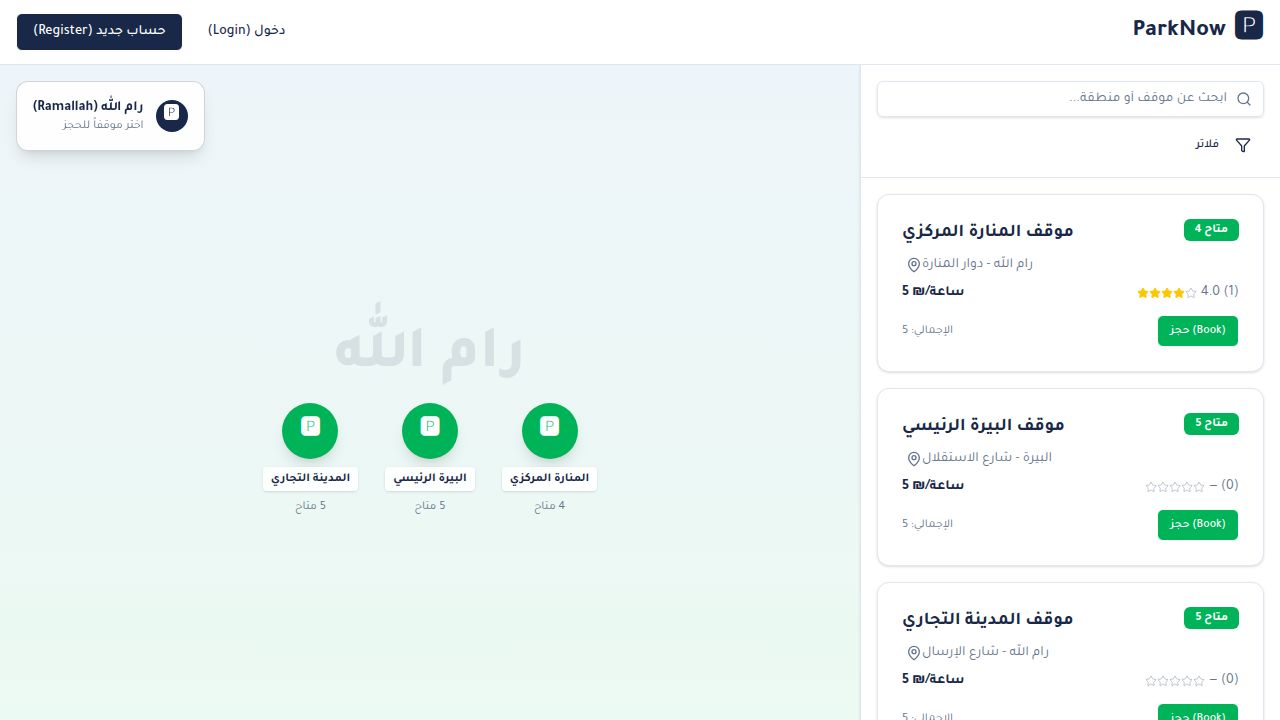
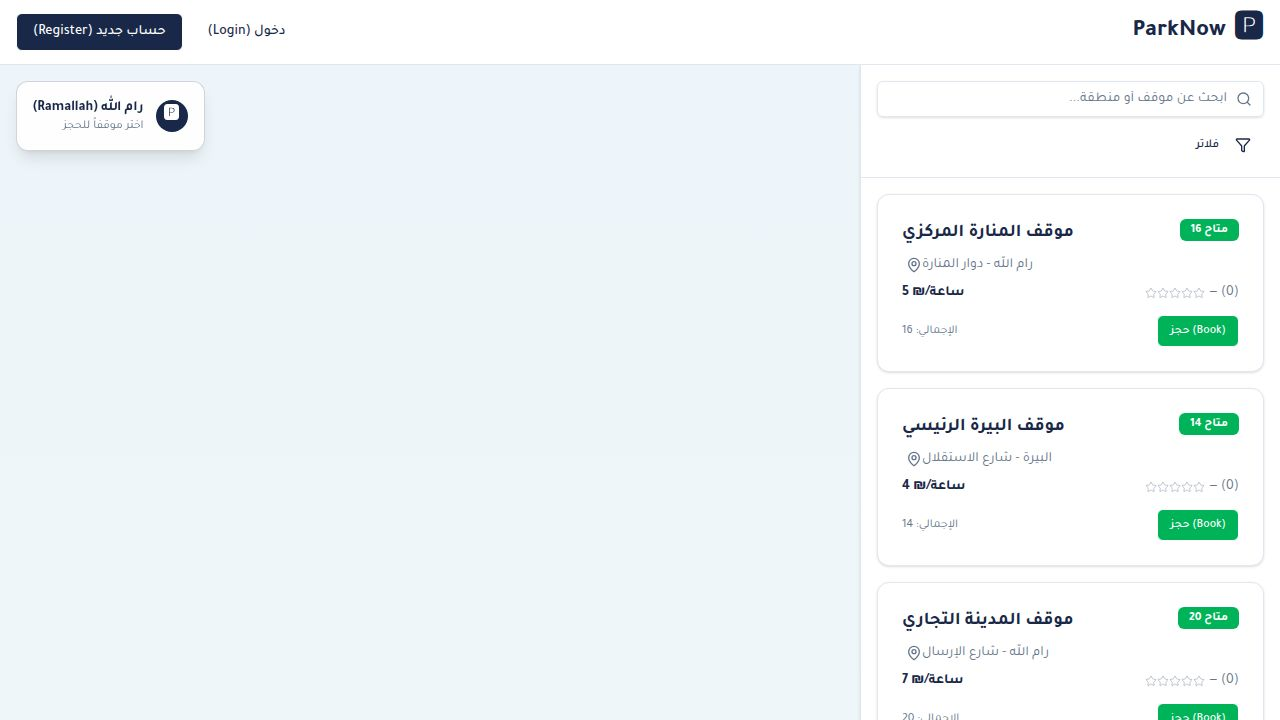
Add welcome and password reset emails and update parking lot data
Implement branded HTML email templates for user registration welcome and password reset OTPs, enhancing the user experience. Add new parking lots in West Bank cities and update existing data, expanding service coverage. Address a security vulnerability by redacting sensitive information from email logs.

Replit-Commit-Author: Agent
Replit-Commit-Session-Id: 3f3a33ab-1a04-45de-af9e-ed6e1a8b5442
Replit-Commit-Checkpoint-Type: full_checkpoint
Replit-Commit-Event-Id: c505c5c2-1ae6-43f1-9c71-472826e18534
Replit-Commit-Screenshot-Url: https://storage.googleapis.com/screenshot-production-us-central1/40684325-cdf8-4e19-86f3-aae6f1441dc0/3f3a33ab-1a04-45de-af9e-ed6e1a8b5442/oGoqeWl
Replit-Helium-Checkpoint-Created: true

diff --git a/artifacts/api-server/src/lib/email-templates.ts b/artifacts/api-server/src/lib/email-templates.ts
@@ -1,0 +1,191 @@
+const NAVY = "#1a2b4a";
+const GREEN = "#00b359";
+const LIGHT_BG = "#f4f6fa";
+const TEXT = "#2d3748";
+const MUTED = "#6b7280";
+
+function escapeHtml(s: string): string {
+  return s
+    .replace(/&/g, "&amp;")
+    .replace(/</g, "&lt;")
+    .replace(/>/g, "&gt;")
+    .replace(/"/g, "&quot;")
+    .replace(/'/g, "&#39;");
+}
+
+function shell(opts: { title: string; bodyHtml: string; preheader?: string }): string {
+  const preheader = opts.preheader ? escapeHtml(opts.preheader) : "";
+  return `<!doctype html>
+<html lang="ar" dir="rtl">
+<head>
+<meta charset="utf-8" />
+<meta name="viewport" content="width=device-width,initial-scale=1" />
+<title>${escapeHtml(opts.title)}</title>
+</head>
+<body style="margin:0;padding:0;background:${LIGHT_BG};font-family:'Segoe UI',Tahoma,Arial,sans-serif;color:${TEXT};direction:rtl;">
+<span style="display:none!important;visibility:hidden;opacity:0;height:0;width:0;overflow:hidden;mso-hide:all;">${preheader}</span>
+<table role="presentation" width="100%" cellpadding="0" cellspacing="0" style="background:${LIGHT_BG};padding:32px 12px;">
+  <tr><td align="center">
+    <table role="presentation" width="600" cellpadding="0" cellspacing="0" style="max-width:600px;width:100%;background:#ffffff;border-radius:16px;overflow:hidden;box-shadow:0 4px 24px rgba(26,43,74,0.08);">
+      <tr>
+        <td style="background:${NAVY};padding:28px 24px;text-align:center;">
+          <table role="presentation" cellpadding="0" cellspacing="0" align="center"><tr>
+            <td style="background:#ffffff;width:48px;height:48px;border-radius:12px;text-align:center;vertical-align:middle;font-weight:800;font-size:24px;color:${NAVY};font-family:Arial,sans-serif;">P</td>
+            <td style="width:12px;"></td>
+            <td style="color:#ffffff;font-size:24px;font-weight:700;font-family:Arial,sans-serif;letter-spacing:0.5px;">ParkNow</td>
+          </tr></table>
+          <div style="color:#cfd6e4;font-size:13px;margin-top:10px;">منصة حجز مواقف السيارات في فلسطين</div>
+        </td>
+      </tr>
+      <tr>
+        <td style="padding:32px 28px 16px 28px;">
+          ${opts.bodyHtml}
+        </td>
+      </tr>
+      <tr>
+        <td style="padding:8px 28px 28px 28px;">
+          <hr style="border:none;border-top:1px solid #e5e7eb;margin:16px 0;" />
+          <p style="color:${MUTED};font-size:12px;line-height:1.7;margin:0;text-align:center;">
+            هذه رسالة آلية، لا حاجة للرد عليها.<br/>
+            <span style="direction:ltr;display:inline-block;">© ParkNow · Palestine</span>
+          </p>
+        </td>
+      </tr>
+    </table>
+  </td></tr>
+</table>
+</body>
+</html>`;
+}
+
+function button(href: string, label: string): string {
+  return `<table role="presentation" cellpadding="0" cellspacing="0" align="center" style="margin:8px auto;">
+    <tr><td style="background:${GREEN};border-radius:10px;">
+      <a href="${escapeHtml(href)}" style="display:inline-block;padding:12px 28px;color:#ffffff;text-decoration:none;font-weight:700;font-size:15px;font-family:Arial,sans-serif;">${escapeHtml(label)}</a>
+    </td></tr>
+  </table>`;
+}
+
+export function welcomeEmailTemplate(opts: { name: string; email: string; appUrl?: string }): {
+  subject: string;
+  text: string;
+  html: string;
+} {
+  const subject = "أهلاً وسهلاً في ParkNow";
+  const appUrl = opts.appUrl ?? "";
+
+  const text = `أهلاً وسهلاً ${opts.name} في ParkNow!
+
+تم إنشاء حسابك بنجاح:
+الاسم: ${opts.name}
+البريد: ${opts.email}
+
+كيف تستخدم التطبيق:
+1. تصفح المواقف القريبة من موقعك على الخريطة
+2. اختر الموقف وحدد وقت الحجز
+3. ادفع الرسوم بسهولة وأمان
+4. استلم تأكيد الحجز ورمز QR
+5. توجه إلى الموقف وامسح الرمز عند الدخول
+
+نتمنى لك تجربة سهلة ومريحة!
+فريق ParkNow`;
+
+  const bodyHtml = `
+    <h1 style="color:${NAVY};font-size:26px;font-weight:800;margin:0 0 8px 0;text-align:center;">أهلاً وسهلاً ${escapeHtml(opts.name)}!</h1>
+    <p style="color:${TEXT};font-size:16px;line-height:1.8;margin:0 0 18px 0;text-align:center;">يسعدنا انضمامك إلى عائلة <strong style="color:${NAVY};">ParkNow</strong>، الحل الأذكى لحجز مواقف السيارات في فلسطين.</p>
+
+    <table role="presentation" width="100%" cellpadding="0" cellspacing="0" style="background:${LIGHT_BG};border-radius:12px;border-right:4px solid ${GREEN};margin:18px 0;">
+      <tr><td style="padding:16px 18px;">
+        <div style="color:${MUTED};font-size:12px;margin-bottom:6px;">معلومات الحساب</div>
+        <div style="color:${TEXT};font-size:15px;line-height:1.9;">
+          <strong>الاسم:</strong> ${escapeHtml(opts.name)}<br/>
+          <strong>البريد:</strong> <span style="direction:ltr;display:inline-block;">${escapeHtml(opts.email)}</span>
+        </div>
+      </td></tr>
+    </table>
+
+    <h2 style="color:${NAVY};font-size:18px;font-weight:700;margin:24px 0 12px 0;">كيف تستخدم ParkNow؟</h2>
+    <table role="presentation" width="100%" cellpadding="0" cellspacing="0">
+      ${[
+        ["1", "تصفّح المواقف القريبة منك على الخريطة وشاهد الأسعار والتوفر مباشرة."],
+        ["2", "اختر الموقف المناسب وحدّد وقت الحجز بكل سهولة."],
+        ["3", "أكمل الحجز واحصل على تأكيد فوري مع رمز QR."],
+        ["4", "توجّه للموقف، امسح الرمز عند الدخول، واستمتع بتجربة بدون انتظار."],
+      ]
+        .map(
+          ([n, txt]) => `<tr><td style="padding:8px 0;vertical-align:top;">
+        <table role="presentation" cellpadding="0" cellspacing="0"><tr>
+          <td style="background:${GREEN};color:#ffffff;width:30px;height:30px;border-radius:50%;text-align:center;font-weight:800;font-family:Arial,sans-serif;font-size:14px;">${n}</td>
+          <td style="width:14px;"></td>
+          <td style="color:${TEXT};font-size:14px;line-height:1.7;">${escapeHtml(txt)}</td>
+        </tr></table>
+      </td></tr>`,
+        )
+        .join("")}
+    </table>
+
+    ${appUrl ? button(appUrl, "ابدأ الحجز الآن") : ""}
+
+    <p style="color:${MUTED};font-size:13px;line-height:1.7;margin:24px 0 0 0;text-align:center;">
+      إذا كان لديك أي استفسار، نحن هنا لمساعدتك في أي وقت.
+    </p>
+  `;
+
+  return { subject, text, html: shell({ title: subject, bodyHtml, preheader: `مرحباً ${opts.name}، حسابك جاهز.` }) };
+}
+
+export function passwordResetEmailTemplate(opts: { code: string; minutes?: number }): {
+  subject: string;
+  text: string;
+  html: string;
+} {
+  const minutes = opts.minutes ?? 10;
+  const subject = "ParkNow - رمز إعادة تعيين كلمة المرور";
+
+  const text = `طلبت إعادة تعيين كلمة المرور لحسابك في ParkNow.
+
+رمز التحقق: ${opts.code}
+
+صالح لمدة ${minutes} دقيقة فقط.
+
+إذا لم تطلب هذا، يمكنك تجاهل الرسالة بأمان.
+
+فريق ParkNow`;
+
+  const digits = opts.code
+    .split("")
+    .map(
+      (d) =>
+        `<td style="background:#ffffff;border:2px solid ${NAVY};color:${NAVY};font-size:28px;font-weight:800;width:44px;height:54px;text-align:center;border-radius:8px;font-family:'Courier New',monospace;">${escapeHtml(
+          d,
+        )}</td>`,
+    )
+    .join('<td style="width:8px;"></td>');
+
+  const bodyHtml = `
+    <h1 style="color:${NAVY};font-size:24px;font-weight:800;margin:0 0 8px 0;text-align:center;">إعادة تعيين كلمة المرور</h1>
+    <p style="color:${TEXT};font-size:15px;line-height:1.8;margin:0 0 20px 0;text-align:center;">طلبت إعادة تعيين كلمة المرور لحسابك في <strong>ParkNow</strong>. استخدم الرمز التالي لإكمال العملية:</p>
+
+    <table role="presentation" cellpadding="0" cellspacing="0" align="center" style="margin:18px auto;">
+      <tr>${digits}</tr>
+    </table>
+
+    <table role="presentation" width="100%" cellpadding="0" cellspacing="0" style="background:${LIGHT_BG};border-radius:10px;margin:18px 0;">
+      <tr><td style="padding:14px 18px;text-align:center;color:${TEXT};font-size:14px;">
+        ⏱ صالح لمدة <strong style="color:${NAVY};">${minutes} دقيقة</strong> فقط
+      </td></tr>
+    </table>
+
+    <div style="background:#fff8e1;border-right:4px solid #f59e0b;padding:14px 18px;border-radius:8px;margin:20px 0;">
+      <p style="color:#78350f;font-size:13px;line-height:1.7;margin:0;">
+        <strong>تنبيه أمني:</strong> إذا لم تطلب إعادة تعيين كلمة المرور، تجاهل هذه الرسالة. كلمة مرورك الحالية لا تزال آمنة.
+      </p>
+    </div>
+
+    <p style="color:${MUTED};font-size:12px;line-height:1.7;margin:18px 0 0 0;text-align:center;">
+      لا تشارك هذا الرمز مع أي شخص. فريق ParkNow لن يطلبه منك أبداً.
+    </p>
+  `;
+
+  return { subject, text, html: shell({ title: subject, bodyHtml, preheader: `رمز التحقق: ${opts.code}` }) };
+}

diff --git a/lib/db/src/seed.ts b/lib/db/src/seed.ts
@@ -4,11 +4,13 @@ import { sqlite } from "./index";
 console.log("Seeding database...");
 
 sqlite.exec(`
+  DELETE FROM ratings;
   DELETE FROM reservations;
   DELETE FROM spots;
   DELETE FROM parking_lots;
+  DELETE FROM password_reset_codes;
   DELETE FROM users;
-  DELETE FROM sqlite_sequence WHERE name IN ('users','parking_lots','spots','reservations');
+  DELETE FROM sqlite_sequence WHERE name IN ('users','parking_lots','spots','reservations','ratings','password_reset_codes');
 `);
 
 const supervisorHash = await bcrypt.hash("supervisor123", 10);
@@ -20,10 +22,60 @@ const insertUser = sqlite.prepare(
 insertUser.run(1, "محمد سليمان", "supervisor@parknow.ps", supervisorHash, "supervisor");
 insertUser.run(2, "أحمد الخطيب", "user@parknow.ps", userHash, "user");
 
-const lots = [
-  { id: 1, name: "موقف المنارة المركزي", location: "رام الله - دوار المنارة", lat: 31.9038, lng: 35.2034, pricePerHour: 5 },
-  { id: 2, name: "موقف البيرة الرئيسي", location: "البيرة - شارع الاستقلال", lat: 31.9122, lng: 35.2157, pricePerHour: 4 },
-  { id: 3, name: "موقف المدينة التجاري", location: "رام الله - شارع الإرسال", lat: 31.8975, lng: 35.1978, pricePerHour: 7 },
+type LotSeed = {
+  name: string;
+  location: string;
+  lat: number;
+  lng: number;
+  pricePerHour: number;
+  spots: number;
+};
+
+const lots: LotSeed[] = [
+  // رام الله (Ramallah) — 6 lots (3 original + 3 new)
+  { name: "موقف المنارة المركزي", location: "رام الله - دوار المنارة", lat: 31.9038, lng: 35.2034, pricePerHour: 5, spots: 16 },
+  { name: "موقف البيرة الرئيسي", location: "البيرة - شارع الاستقلال", lat: 31.9122, lng: 35.2157, pricePerHour: 4, spots: 14 },
+  { name: "موقف المدينة التجاري", location: "رام الله - شارع الإرسال", lat: 31.8975, lng: 35.1978, pricePerHour: 7, spots: 20 },
+  { name: "موقف الإرسال السياحي", location: "رام الله - شارع الإرسال السفلي", lat: 31.8965, lng: 35.1963, pricePerHour: 6, spots: 12 },
+  { name: "موقف رام الله التحتا", location: "رام الله - الطاحونة", lat: 31.9156, lng: 35.2089, pricePerHour: 4, spots: 15 },
+  { name: "موقف الطيرة", location: "رام الله - حي الطيرة", lat: 31.8842, lng: 35.1854, pricePerHour: 5, spots: 10 },
+
+  // نابلس (Nablus) — 3 lots
+  { name: "موقف دوار الشهداء", location: "نابلس - دوار الشهداء", lat: 32.2211, lng: 35.2544, pricePerHour: 6, spots: 18 },
+  { name: "موقف رفيديا", location: "نابلس - حي رفيديا", lat: 32.2243, lng: 35.2399, pricePerHour: 5, spots: 14 },
+  { name: "موقف البلدة القديمة", location: "نابلس - البلدة القديمة", lat: 32.2208, lng: 35.2602, pricePerHour: 4, spots: 12 },
+
+  // الخليل (Hebron) — 3 lots
+  { name: "موقف وسط البلد", location: "الخليل - وسط المدينة", lat: 31.5326, lng: 35.0998, pricePerHour: 5, spots: 16 },
+  { name: "موقف باب الزاوية", location: "الخليل - باب الزاوية", lat: 31.5294, lng: 35.0950, pricePerHour: 6, spots: 13 },
+  { name: "موقف عين سارة", location: "الخليل - شارع عين سارة", lat: 31.5398, lng: 35.1027, pricePerHour: 4, spots: 11 },
+
+  // بيت لحم (Bethlehem) — 3 lots
+  { name: "موقف ساحة المهد", location: "بيت لحم - ساحة المهد", lat: 31.7044, lng: 35.2056, pricePerHour: 8, spots: 20 },
+  { name: "موقف باب زقاق", location: "بيت لحم - باب زقاق", lat: 31.7081, lng: 35.1997, pricePerHour: 6, spots: 14 },
+  { name: "موقف بيت ساحور", location: "بيت ساحور - الشارع الرئيسي", lat: 31.7020, lng: 35.2158, pricePerHour: 4, spots: 12 },
+
+  // جنين (Jenin) — 2 lots
+  { name: "موقف مركز المدينة", location: "جنين - وسط المدينة", lat: 32.4602, lng: 35.2950, pricePerHour: 4, spots: 14 },
+  { name: "موقف السوق التجاري", location: "جنين - السوق التجاري", lat: 32.4581, lng: 35.2986, pricePerHour: 3, spots: 10 },
+
+  // طولكرم (Tulkarm) — 2 lots
+  { name: "موقف وسط طولكرم", location: "طولكرم - وسط المدينة", lat: 32.3104, lng: 35.0237, pricePerHour: 4, spots: 12 },
+  { name: "موقف شارع نابلس", location: "طولكرم - شارع نابلس", lat: 32.3128, lng: 35.0294, pricePerHour: 3, spots: 10 },
+
+  // قلقيلية (Qalqilya) — 2 lots
+  { name: "موقف البلدة", location: "قلقيلية - البلدة القديمة", lat: 32.1896, lng: 34.9706, pricePerHour: 3, spots: 11 },
+  { name: "موقف السوق المركزي", location: "قلقيلية - السوق المركزي", lat: 32.1922, lng: 34.9728, pricePerHour: 4, spots: 13 },
+
+  // أريحا (Jericho) — 2 lots
+  { name: "موقف المدينة السياحي", location: "أريحا - وسط المدينة", lat: 31.8568, lng: 35.4567, pricePerHour: 7, spots: 18 },
+  { name: "موقف عين السلطان", location: "أريحا - عين السلطان", lat: 31.8714, lng: 35.4445, pricePerHour: 6, spots: 14 },
+
+  // سلفيت (Salfit) — 1 lot
+  { name: "موقف وسط سلفيت", location: "سلفيت - وسط المدينة", lat: 32.0833, lng: 35.1782, pricePerHour: 3, spots: 10 },
+
+  // طوباس (Tubas) — 1 lot
+  { name: "موقف طوباس المركزي", location: "طوباس - وسط المدينة", lat: 32.3214, lng: 35.3691, pricePerHour: 3, spots: 10 },
 ];
 
 const insertLot = sqlite.prepare(
@@ -33,12 +85,13 @@ const insertSpot = sqlite.prepare(
   "INSERT INTO spots (lot_id, spot_number, status) VALUES (?, ?, 'available')"
 );
 
-for (const lot of lots) {
-  insertLot.run(lot.id, 1, lot.name, lot.location, 5, lot.lat, lot.lng, lot.pricePerHour);
-  for (let i = 1; i <= 5; i++) {
-    insertSpot.run(lot.id, `A${i}`);
+lots.forEach((lot, idx) => {
+  const lotId = idx + 1;
+  insertLot.run(lotId, 1, lot.name, lot.location, lot.spots, lot.lat, lot.lng, lot.pricePerHour);
+  for (let i = 1; i <= lot.spots; i++) {
+    insertSpot.run(lotId, `A${i}`);
   }
-}
+});
 
 const userCount = (sqlite.prepare("SELECT COUNT(*) as c FROM users").get() as { c: number }).c;
 const lotCount = (sqlite.prepare("SELECT COUNT(*) as c FROM parking_lots").get() as { c: number }).c;

diff --git a/artifacts/api-server/src/routes/auth.ts b/artifacts/api-server/src/routes/auth.ts
@@ -5,6 +5,8 @@ import { db, usersTable, passwordResetCodesTable } from "@workspace/db";
 import { eq, and, gt } from "drizzle-orm";
 import { RegisterBody, LoginBody, ForgotPasswordBody, VerifyResetCodeBody, ResetPasswordBody } from "@workspace/api-zod";
 import { sendEmail, emailEnabled } from "../lib/email";
+import { welcomeEmailTemplate, passwordResetEmailTemplate } from "../lib/email-templates";
+import { logger } from "../lib/logger";
 
 const router: IRouter = Router();
 
@@ -93,6 +95,16 @@ router.post("/auth/register", async (req, res): Promise<void> => {
 
   req.session.userId = user.id;
 
+  // Fire-and-forget welcome email so registration is not blocked by SMTP.
+  void (async () => {
+    try {
+      const tpl = welcomeEmailTemplate({ name: user.name, email: user.email });
+      await sendEmail({ to: user.email, subject: tpl.subject, text: tpl.text, html: tpl.html });
+    } catch (err) {
+      logger.error({ err, userId: user.id }, "Failed to send welcome email");
+    }
+  })();
+
   res.status(201).json({
     user: userToJson(user),
     message: "تم إنشاء الحساب بنجاح",
@@ -178,15 +190,16 @@ router.post("/auth/forgot-password", passwordResetLimiter, async (req, res): Pro
     .where(and(eq(passwordResetCodesTable.email, email), eq(passwordResetCodesTable.used, false)));
 
   const code = String(Math.floor(100000 + Math.random() * 900000));
-  const expiresAt = new Date(Date.now() + 15 * 60 * 1000);
+  const expiresAt = new Date(Date.now() + 10 * 60 * 1000);
 
   await db.insert(passwordResetCodesTable).values({ email, code, expiresAt });
 
+  const tpl = passwordResetEmailTemplate({ code, minutes: 10 });
   const result = await sendEmail({
     to: email,
-    subject: "ParkNow - رمز إعادة تعيين كلمة المرور",
-    text: `رمز التحقق الخاص بك: ${code}\n\nصالح لمدة 15 دقيقة.\n\nYour ParkNow verification code: ${code}\nValid for 15 minutes.`,
-    html: `<div style="font-family:sans-serif;direction:rtl"><h2>إعادة تعيين كلمة المرور</h2><p>رمز التحقق الخاص بك:</p><h1 style="background:#1a2b4a;color:white;padding:16px;text-align:center;letter-spacing:4px;border-radius:8px">${code}</h1><p>صالح لمدة 15 دقيقة.</p></div>`,
+    subject: tpl.subject,
+    text: tpl.text,
+    html: tpl.html,
   });
 
   // SECURITY: Only expose the code in the API response in development AND only

diff --git a/artifacts/api-server/src/lib/email.ts b/artifacts/api-server/src/lib/email.ts
@@ -25,7 +25,19 @@ export async function sendEmail(opts: {
   html?: string;
 }): Promise<{ sent: boolean; previewCode?: string }> {
   if (!transporter) {
-    logger.info({ to: opts.to, subject: opts.subject, body: opts.text }, "[EMAIL DEV MODE] Would send:");
+    // SECURITY: never log the email body — it may contain OTPs, password reset
+    // codes, or other sensitive material. Log metadata only.
+    if (process.env.NODE_ENV === "production") {
+      logger.error(
+        { to: opts.to, subject: opts.subject },
+        "[EMAIL] SMTP not configured in production — email NOT sent",
+      );
+    } else {
+      logger.info(
+        { to: opts.to, subject: opts.subject },
+        "[EMAIL DEV MODE] Would send (body redacted; use API response devCode for testing)",
+      );
+    }
     return { sent: false };
   }
   try {
@@ -38,7 +50,7 @@ export async function sendEmail(opts: {
     });
     return { sent: true };
   } catch (err) {
-    logger.error({ err }, "Failed to send email");
+    logger.error({ err, to: opts.to, subject: opts.subject }, "Failed to send email");
     return { sent: false };
   }
 }

diff --git a/artifacts/parknow/src/pages/forgot-password.tsx b/artifacts/parknow/src/pages/forgot-password.tsx
@@ -113,7 +113,7 @@ export default function ForgotPassword() {
                 </div>
               )}
               <div className="space-y-2">
-                <Label htmlFor="code">رمز التحقق (6 أرقام)</Label>
+                <Label htmlFor="code">رمز التحقق (6 أرقام - صالح لمدة 10 دقائق)</Label>
                 <Input id="code" value={code} onChange={(e) => setCode(e.target.value.replace(/\D/g, "").slice(0, 6))} required dir="ltr" className="text-center text-2xl font-mono tracking-widest" maxLength={6} />
               </div>
             </CardContent>

diff --git a/replit.md b/replit.md
@@ -95,3 +95,17 @@ All ID columns use `integer().primaryKey({ autoIncrement: true })` (SQLite analo
 After `orval --config ./orval.config.ts`, the `lib/api-zod/src/index.ts` must only export from `./generated/api` (the codegen script handles this).
 
 Orval names body schemas after operationIds, e.g. `verifyResetCode` → `VerifyResetCodeBody`, `rateReservation` → `RateReservationBody`.
+
+## Email (Apr 2026 update)
+
+- Branded RTL HTML email templates live in `artifacts/api-server/src/lib/email-templates.ts` (`welcomeEmailTemplate`, `passwordResetEmailTemplate`).
+- Brand colors: navy `#1a2b4a`, green `#00b359`. Templates include logo block, footer, and proper escaping (`escapeHtml`).
+- Welcome email is sent fire-and-forget after successful registration so SMTP problems can never break signup.
+- Password reset OTP: 6-digit code, 10-minute expiry.
+- `sendEmail()` falls back to console-logging metadata only (`to` + `subject`) when SMTP is not configured. **Never logs the body** — this prevents OTPs from leaking into logs.
+- Configure real delivery by setting `SMTP_HOST`, `SMTP_USER`, `SMTP_PASS` (and optionally `SMTP_PORT`, `SMTP_FROM`) as secrets, then restart the API server.
+
+## Seed (Apr 2026 update)
+
+- 25 parking lots across 10 Palestinian West Bank cities (Ramallah/البيرة, Nablus, Hebron, Bethlehem, Jenin, Tulkarm, Qalqilya, Jericho, Salfit, Tubas), 339 spots total.
+- Run `pnpm --filter @workspace/db run seed` to reset + reseed. Cleanup deletes from `ratings`, `reservations`, `spots`, `parking_lots`, `password_reset_codes`, `users` in FK-safe order.
